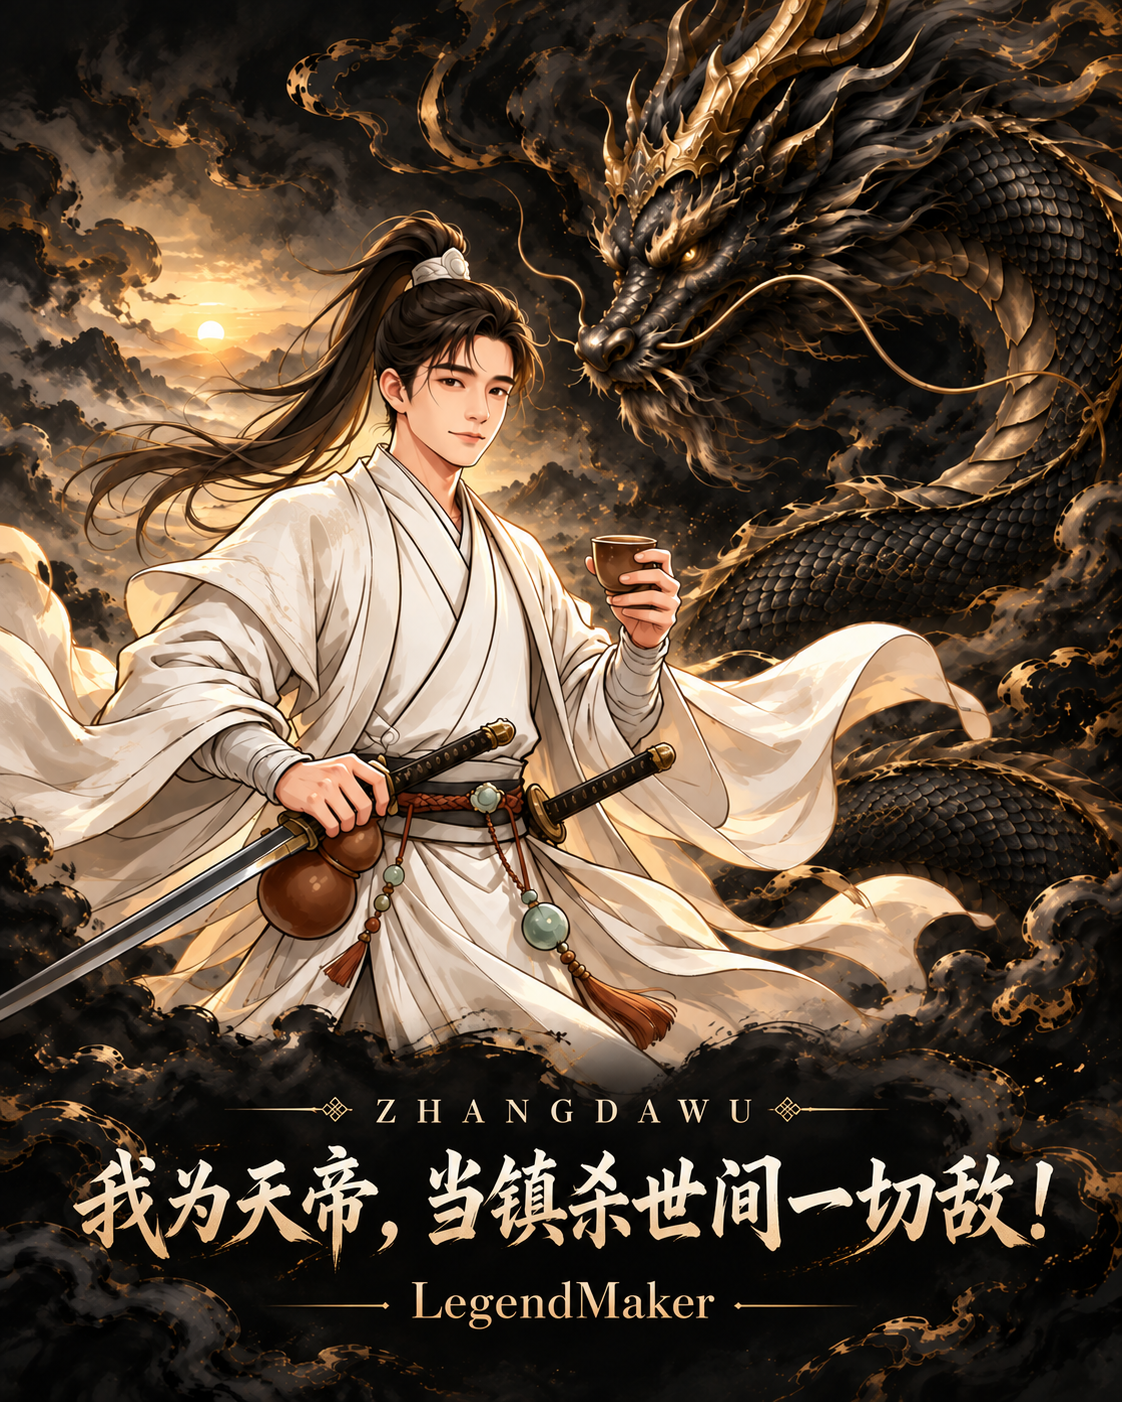
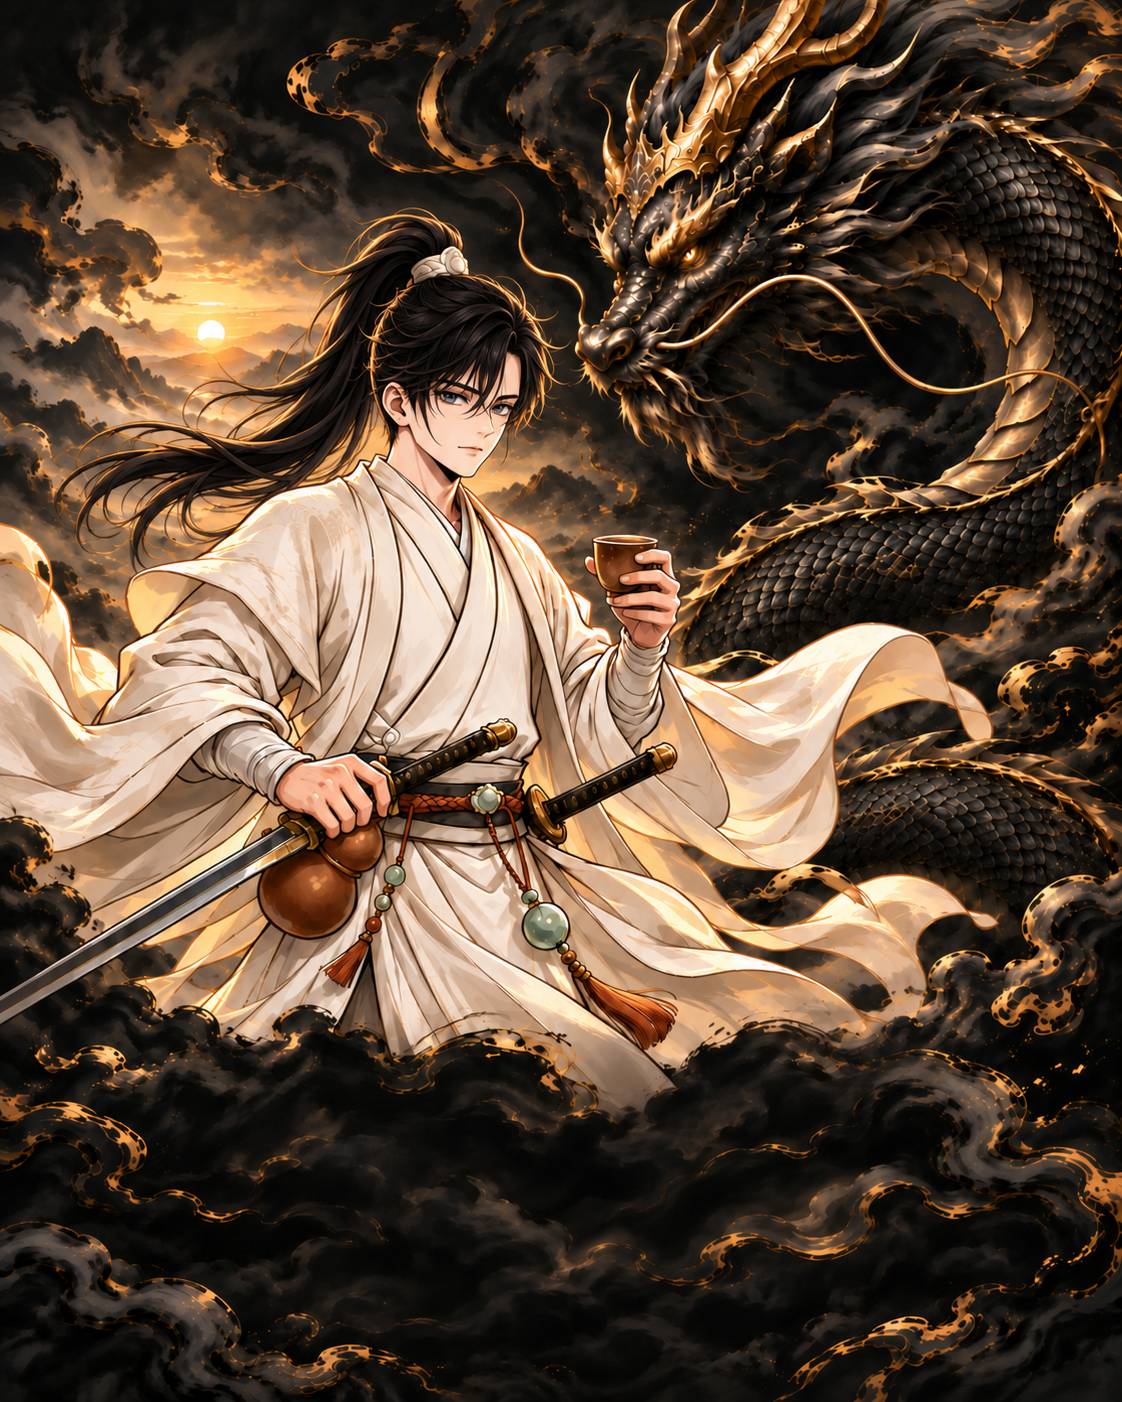
Refresh portrait artwork and profile signature

diff --git a/README.md b/README.md
@@ -1,12 +1,11 @@
 <picture>
   <source media="(max-width: 600px)" srcset="assets/hero-mobile.png">
-  <img src="assets/hero.png" alt="白衣少年郎与黑金龙；从上到下：ZHANGDAWU；我为天帝，当镇杀世间一切敌！；LegendMaker。">
+  <img src="assets/hero.png" alt="白衣少年与黑金龙，无文字主视觉。">
 </picture>
 
 **ZhangDaWu / MortarGOD**
 
-> 诗酒趁年华，仗剑走天涯。  
-> 陌上人如玉，公子世无双。
+> 纵有千古 横有八荒 仙之巅 傲世间
 
 编译器、C++ 与哈希算法，是这里的技术主线。从词法分析到 ARM 汇编，关注规则如何成为可运行的代码。
 
